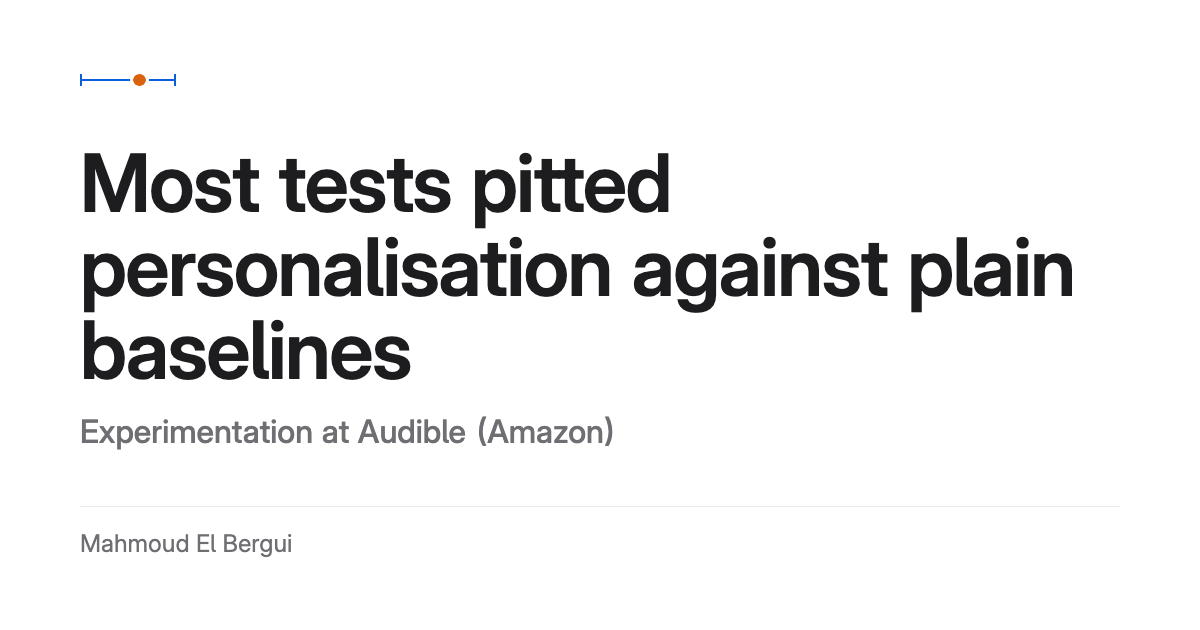
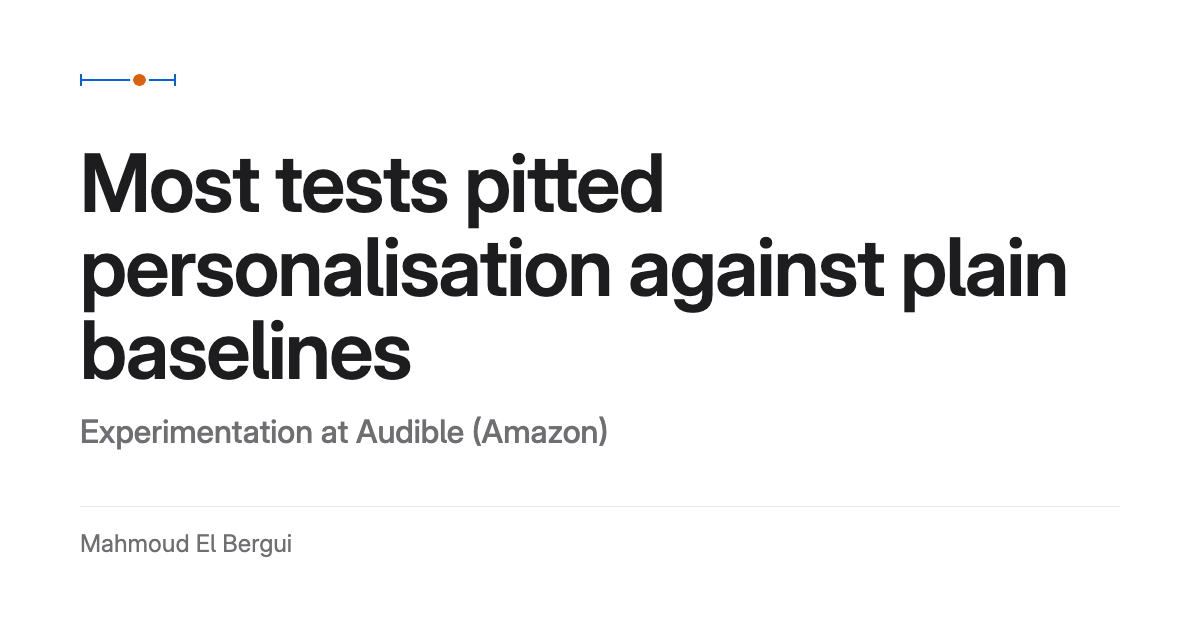
fix(seo): give the case sharing cards their own text
The case cards no longer read the experiment's headlines, so a change to
that copy never changes a sharing image. The Retention card now states the
page's finding ("Returned-order value grew about 2%, not 29%", both figures
from the facts). The images set text without tabular figures, which had
widened the hyphen in a headline. All four PNGs and their lock are
re-rendered.

diff --git a/tests/unit/seo/metadata.test.ts b/tests/unit/seo/metadata.test.ts
@@ -8,7 +8,6 @@ import { serverEnv } from '@/lib/env';
 import { CanonicalOriginError, TEST_ORIGIN_HOST, canonicalOrigin, pageMetadata } from '@/lib/seo/metadata';
 import { OG_HEIGHT, OG_WIDTH, ogAlt, ogHtml, themeFromTokens } from '@/lib/seo/og-template';
 import { SITE } from '@/lib/site';
-import { headlineText, HEADLINES } from '../../../content/home.ts';
 import {
   HOME_SHARE_TITLE,
   OG_CARDS,
@@ -386,12 +385,20 @@ describe('sharingTemplate', () => {
     expect((home.twitter as { title?: string }).title).toBe(HOME_SHARE_TITLE);
   });
 
-  it('a case card states its finding in 60 characters or fewer, from the frozen headlines', () => {
+  it("a case card states its landing page's finding in 60 characters or fewer, never the experiment's copy", async () => {
+    const { AUDIBLE_TITLE } = await import('@/components/audible/AudiblePage');
     const cases = OG_CARDS.filter((card) => card.variant === 'case');
     expect(cases.map((card) => card.name).sort()).toEqual(['audible', 'pulse', 'retention']);
+    // Audible: the page's own h1.
+    expect(ogCard('audible').title).toBe(AUDIBLE_TITLE);
+    // Retention: the page's finding (content/retention.tsx RetentionFindings, "returned-order value grew about
+    // <clean>, not <raw>"), both figures from the facts.
+    expect(ogCard('retention').title).toBe(
+      `Returned-order value grew about ${factText('retail.returns.yoy_growth_clean')}, not ${factText('retail.returns.yoy_growth_raw')}`,
+    );
+    expect(ogCard('retention').factIds).toEqual(['retail.returns.yoy_growth_clean', 'retail.returns.yoy_growth_raw']);
+    expect(ogCard('pulse').title).toBe(`${factText('pulse.events.count')} events, each designed to answer a product question`);
     for (const card of cases) {
-      const headline = HEADLINES.find((h) => h.study === card.name);
-      expect(card.title, card.name).toBe(headlineText(headline!.b));
       expect(card.title.length, card.title).toBeLessThanOrEqual(60);
       expect(card.footer).toBe(SITE.name);
       expect(card.proof).toBeUndefined();
@@ -405,6 +412,12 @@ describe('sharingTemplate', () => {
       expect(entry.imageAlt).toBe(ogAlt(card!));
       expect(entry.factIds).toEqual(card!.factIds);
     }
+  });
+
+  it('sets text in the body face without tabular figures, which widen the hyphen in a headline', () => {
+    const html = ogHtml(ogCard('retention'), theme, 'data:,');
+    expect(html).toContain('font-feature-settings:"cv05"');
+    expect(html).not.toMatch(/tnum/);
   });
 
   it('reads its colours from tokens.css', () => {
@@ -464,5 +477,15 @@ describe('sharingTemplate', () => {
       expect([png.readUInt32BE(16), png.readUInt32BE(20)], file).toEqual([OG_WIDTH, OG_HEIGHT]);
       expect(meta).toEqual({ sha256: createHash('sha256').update(png).digest('hex'), width: OG_WIDTH, height: OG_HEIGHT });
     }
+    // Decoupled from the experiment: a change to its headlines never changes a sharing image.
+    const source = fs.readFileSync(path.join(ROOT, 'content/seo.ts'), 'utf8');
+    expect(source).not.toMatch(/experiment\/headlines|HEADLINES|from '\.\/home(\.ts)?'/);
+  });
+
+  it('the Retention card states what the Retention page says', () => {
+    const page = fs.readFileSync(path.join(ROOT, 'content/retention.tsx'), 'utf8').replace(/\s+/g, ' ');
+    expect(page).toContain(
+      'returned-order value grew about{\' \'} <Fact id="retail.returns.yoy_growth_clean" /> in January to November 2011, not{\' \'} <Fact id="retail.returns.yoy_growth_raw" />',
+    );
   });
 });

diff --git a/content/seo.ts b/content/seo.ts
@@ -11,7 +11,7 @@
 import type { FactId } from '../src/lib/facts/index.ts';
 import { ogAlt, type OgCard } from '../src/lib/seo/og-template.ts';
 import { SITE } from '../src/lib/site.ts';
-import { HEADLINES, headlineText, type Study } from './home.ts';
+import { factText } from '../src/lib/facts/text.ts';
 
 export type SeoEntry = {
   path: string;
@@ -40,15 +40,24 @@ export const SITE_SHARING_HEADLINE = 'Data, experimentation, AI and automation';
 /** The Home page's title in a link preview (og:title, twitter:title). */
 export const HOME_SHARE_TITLE = 'Mahmoud El Bergui: data, experimentation, AI and automation';
 
-/** A case card's title is the study's finding headline (the group B card headline). */
-function finding(study: Study): string {
-  const headline = HEADLINES.find((h) => h.study === study);
-  if (!headline) throw new Error(`no headline for ${study}`);
-  return headlineText(headline.b);
-}
+/**
+ * A case card's headline states its landing page's finding in the page's own words. The cards have their
+ * own text here, so a change to the experiment's copy never changes a sharing image.
+ */
+const CASE_TITLES = {
+  // The Audible page's h1 (src/components/audible/AudiblePage.tsx AUDIBLE_TITLE).
+  audible: 'Most tests pitted personalisation against plain baselines',
+  // The Retention page's finding (content/retention.tsx: "returned-order value grew about <clean> in
+  // January to November 2011, not <raw>").
+  retention: `Returned-order value grew about ${factText('retail.returns.yoy_growth_clean')}, not ${factText('retail.returns.yoy_growth_raw')}`,
+  // The Pulse finding, for /work/pulse, which lands with its own page.
+  pulse: `${factText('pulse.events.count')} events, each designed to answer a product question`,
+} as const;
 
-function caseCard(name: Study, sub: string, factIds: readonly FactId[]): OgCard {
-  return { name, variant: 'case', title: finding(name), sub, footer: SITE.name, factIds };
+type CaseName = keyof typeof CASE_TITLES;
+
+function caseCard(name: CaseName, sub: string, factIds: readonly FactId[]): OgCard {
+  return { name, variant: 'case', title: CASE_TITLES[name], sub, footer: SITE.name, factIds };
 }
 
 export const OG_CARDS: readonly OgCard[] = [
@@ -58,7 +67,6 @@ export const OG_CARDS: readonly OgCard[] = [
     'retail.returns.yoy_growth_clean',
     'retail.returns.yoy_growth_raw',
   ]),
-  // For /work/pulse, which lands with its own page.
   caseCard('pulse', 'Pulse: analytics instrumentation demo', ['pulse.events.count']),
 ];
 

diff --git a/src/lib/seo/og-template.ts b/src/lib/seo/og-template.ts
@@ -73,7 +73,7 @@ export function ogHtml(card: OgCard, theme: OgTheme, fontUrl: string): string {
     `:root{--bg:${theme.bg};--ink:${theme.ink};--muted:${theme.muted};--line:${theme.line};--s1:${theme.series1};--s2:${theme.series2}}`,
     '*{box-sizing:border-box}',
     'html,body{margin:0}',
-    'body{width:1200px;height:630px;background:var(--bg);color:var(--ink);font-family:\'Inter\',sans-serif;font-optical-sizing:auto;font-feature-settings:"cv05","tnum";position:relative;overflow:hidden}',
+    'body{width:1200px;height:630px;background:var(--bg);color:var(--ink);font-family:\'Inter\',sans-serif;font-optical-sizing:auto;font-feature-settings:"cv05";position:relative;overflow:hidden}',
     '.frame{position:absolute;inset:0;padding:72px 80px;display:flex;flex-direction:column;justify-content:space-between}',
     '.glyph{width:96px; height:16px;position:relative}',
     '.glyph b{position:absolute;left:0;right:0;top:7px;height:2px;background:var(--s1)}',
